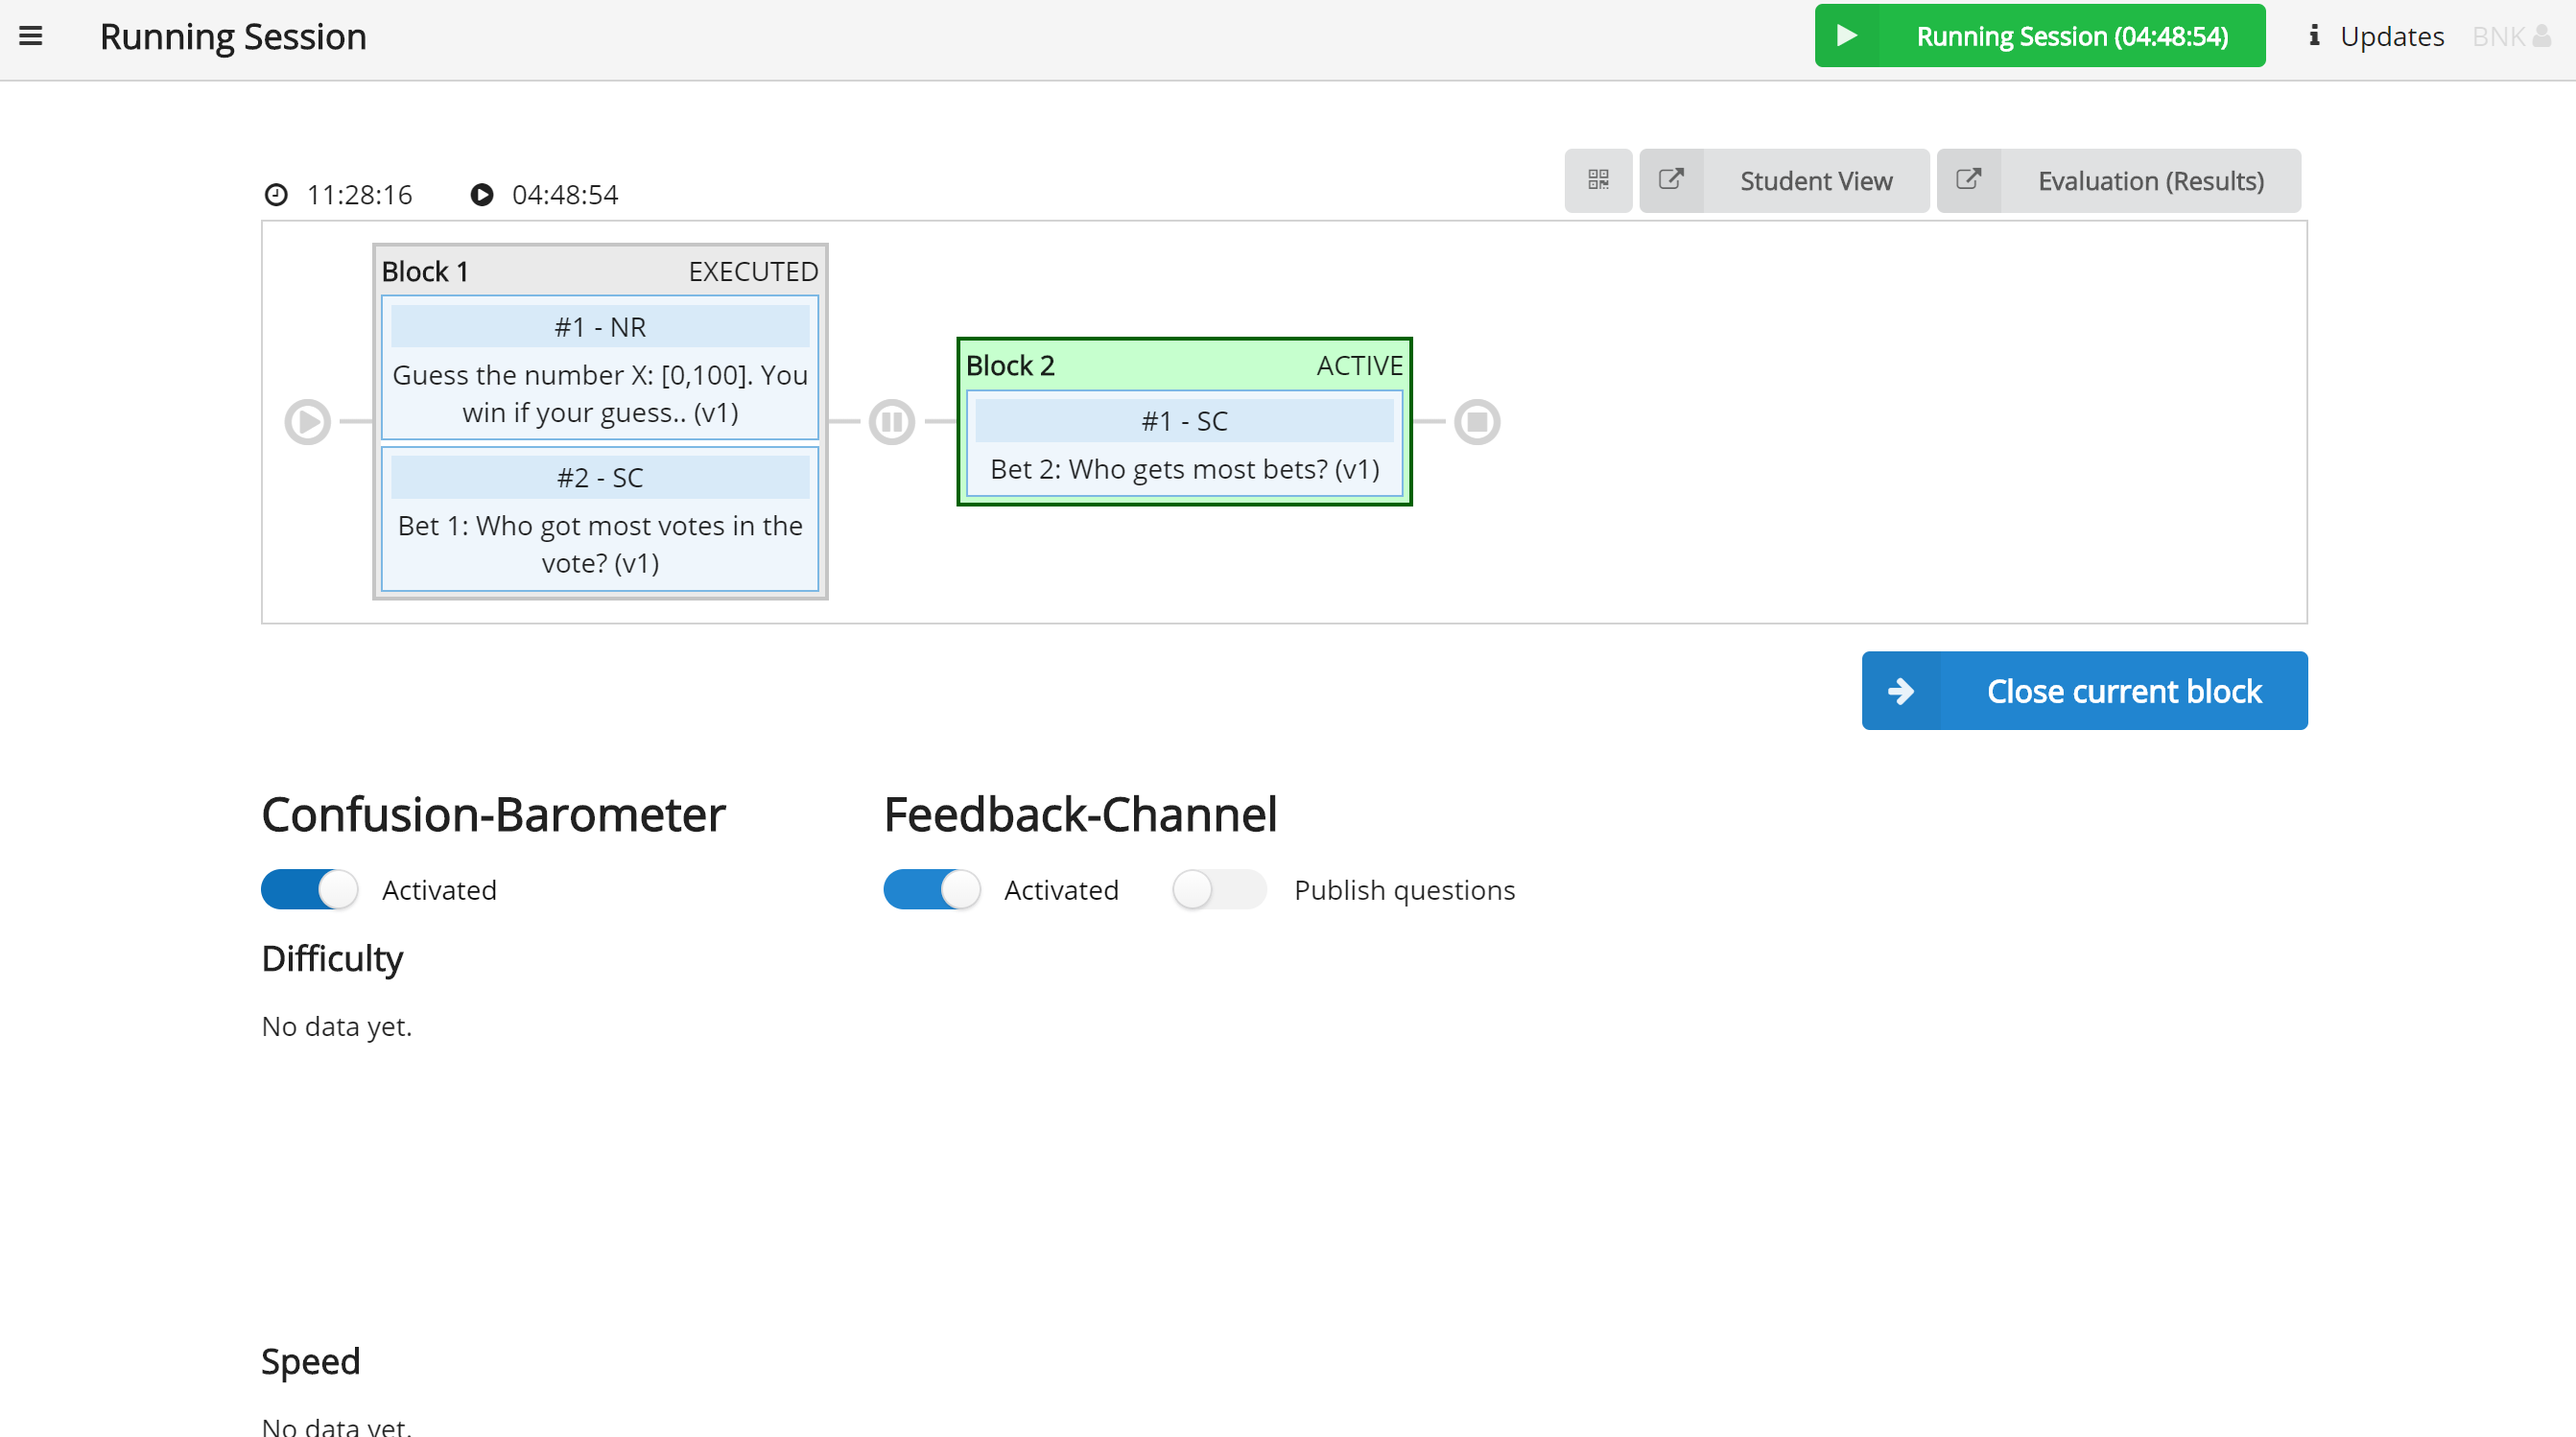
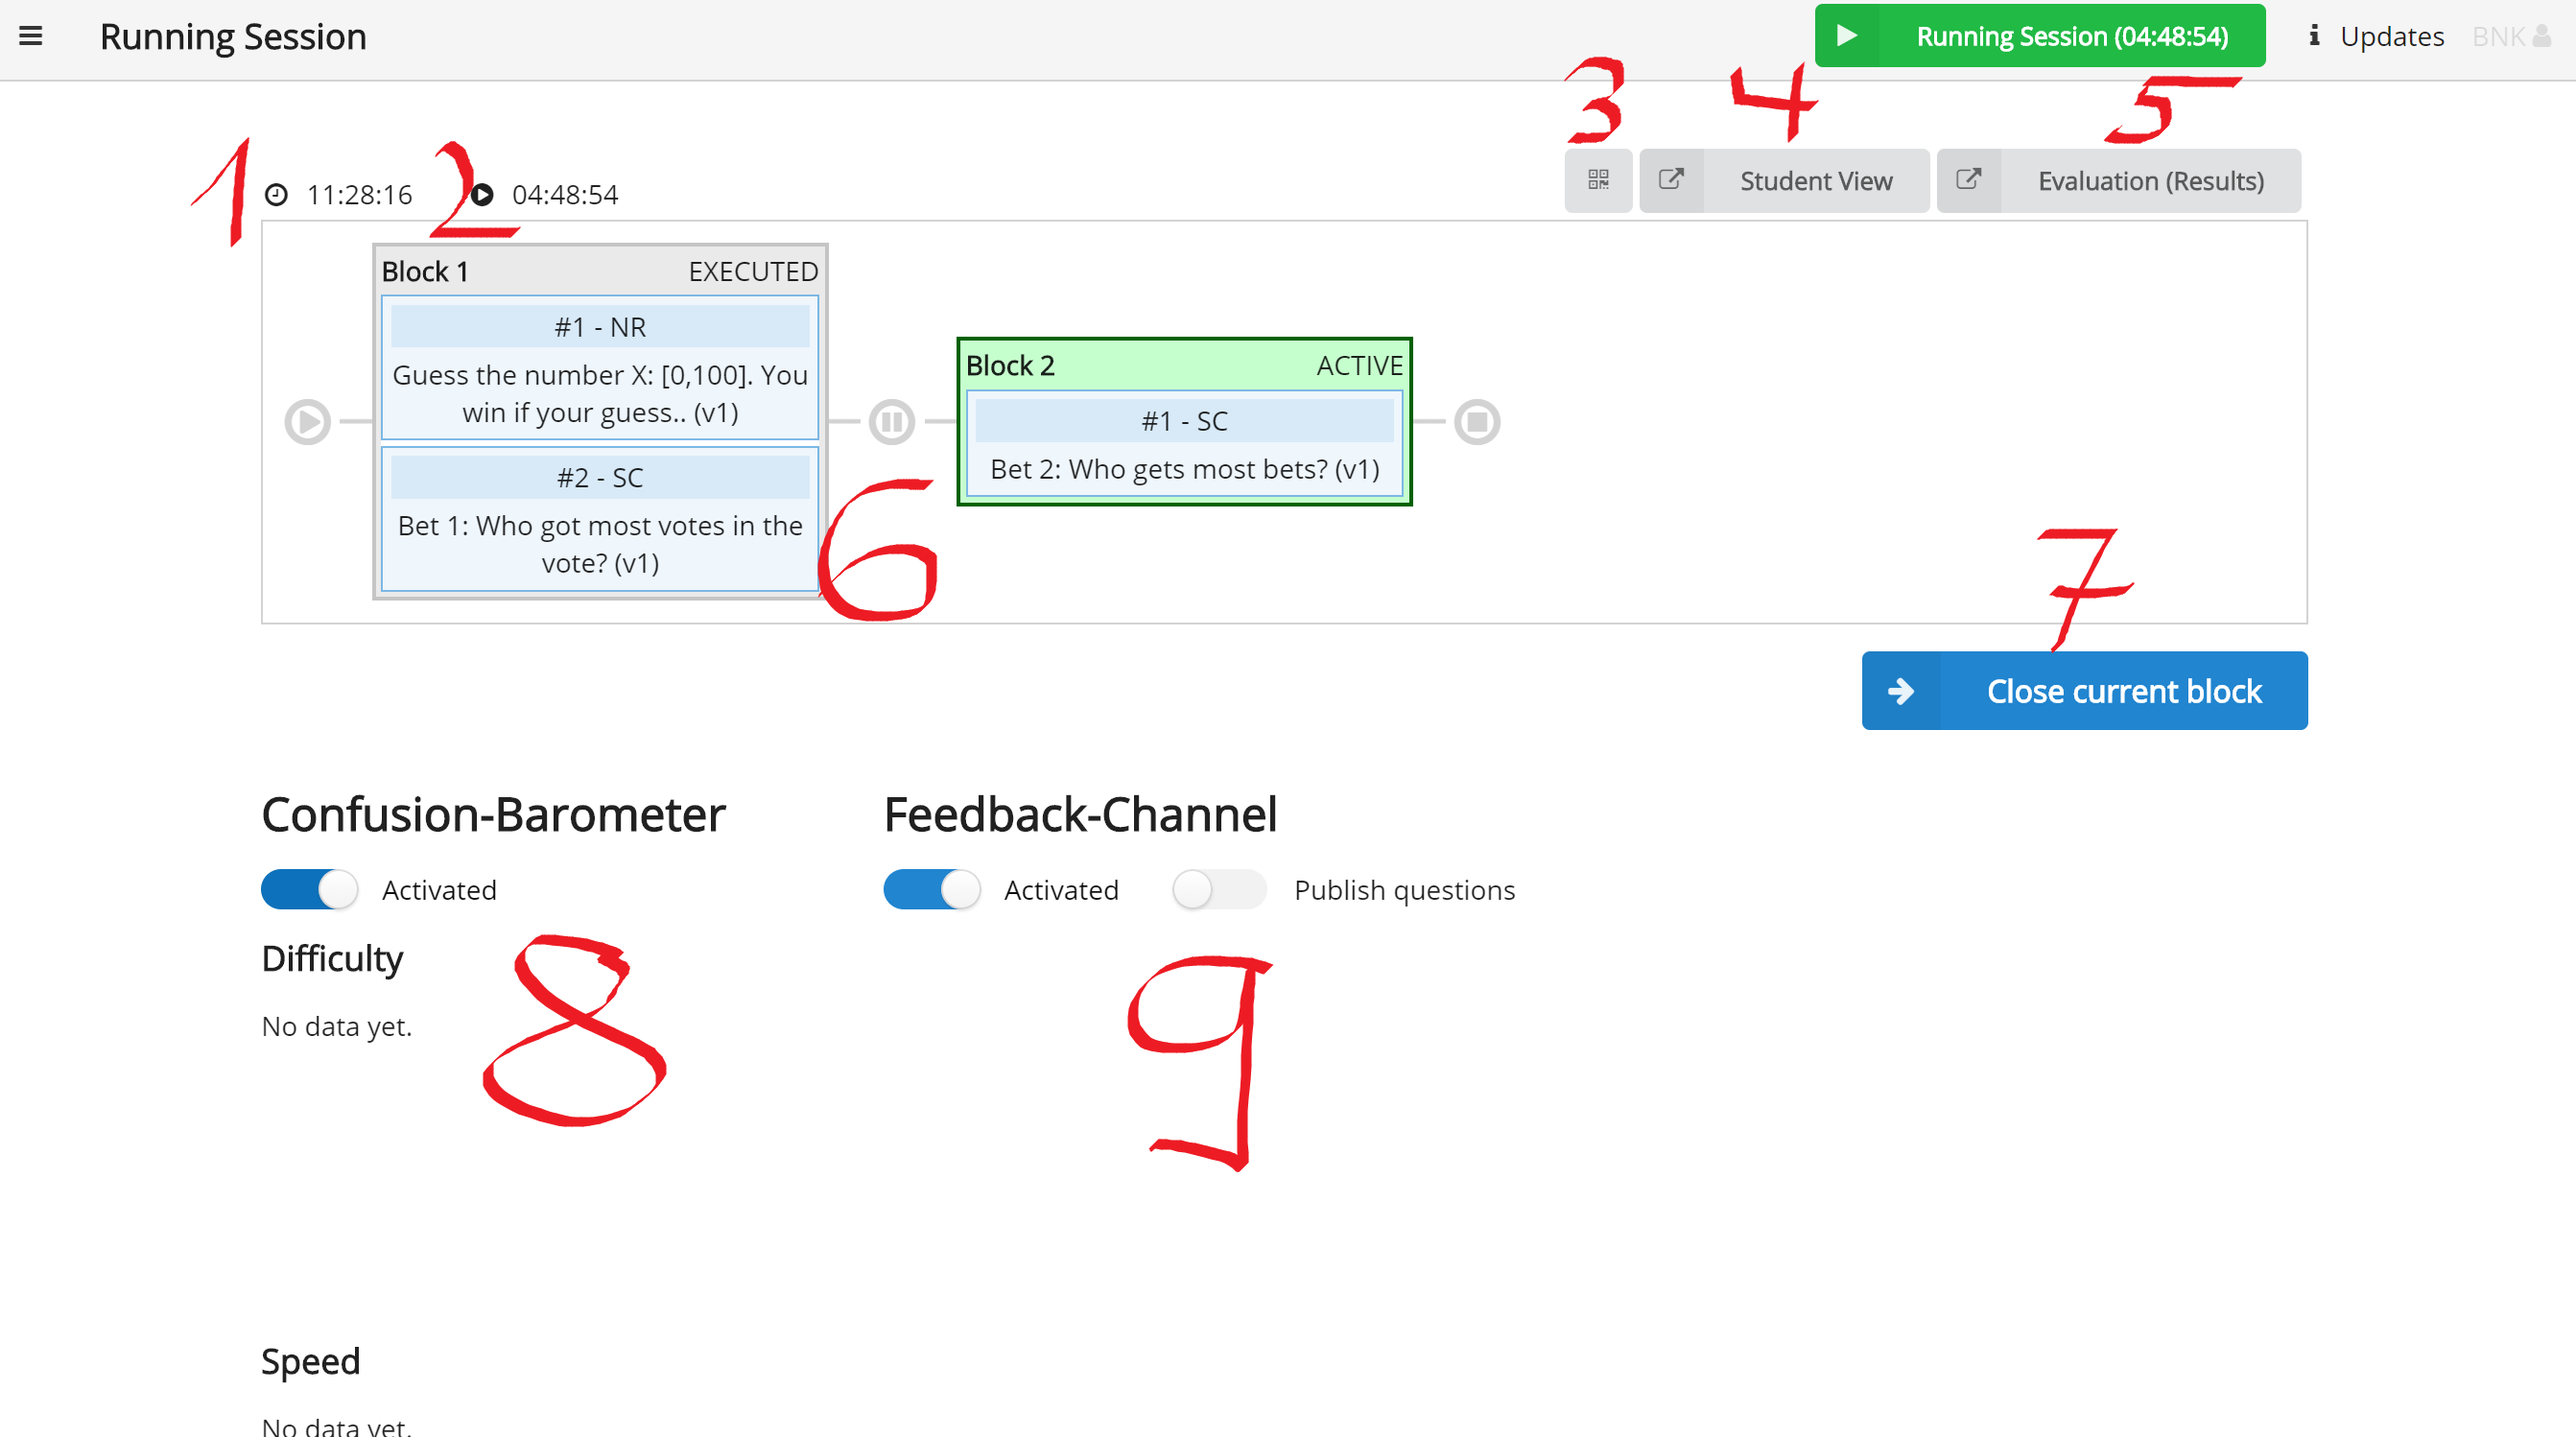
first documentation version finished

diff --git a/docusaurus/docs/doc7.md b/docusaurus/docs/doc7.md
@@ -3,14 +3,16 @@ id: doc7
 title: Running Session
 ---
 
-1. Starting Time
-2. Session Duration
-3. QR Code
-4. Student View
-5. Evaluation
-6. Question blocks
-7. Navigation
-8. Confusion-Barometer
-9. Feedback-Channel
+This screen is used during a speech or lecture to manage the questions and audience feedback and provides the following information and options:
+
+1. **Starting Time:** The time the session was started at.
+2. **Session Duration:** How long the session is already running.
+3. **QR Code:** Click here to display the QR-Code so that the audience can scan it (eg. with an appropriate mobile app) and get forwarded to the web page for answering the questions and giving feedback.
+4. **Student View:** Click here to see the [Student View](doc8.md). This also shows the URL to give to the audience for participation.
+5. **Evaluation:** Click here to see the [Evaluation](doc8.md) of the already answered questions.
+6. **Question blocks:** Already executed question blocks are labeled with "EXECUTED", the active one is labeled with "Active" and colored in green and upcoming question blocks are labeled with "PLANNED".
+7. **Navigation:** This button is used to navigate through the question blocks. It indicates the action taken when it is clicked. One can never navigate backwards!
+8. **Confusion-Barometer:** The Confusion-Barometer enables the audience to give feedback about the speed and difficulty of the speech or lecture. Click the button to activate or deactivate the function. Below the feedback about the speed and difficulty is presented in separate graphs.
+9. **Feedback-Channel:** The Feedback-Channel facilitates the audience to ask questions and give text feedback to the speaker. This function can be activated or deactivated with the button. Furthermore, the speaker may decide whether the feedback should also be visible to the audience or not.
 
 ![Running Session](assets/running_session.png)

diff --git a/docusaurus/docs/doc9.md b/docusaurus/docs/doc9.md
@@ -3,4 +3,20 @@ id: doc9
 title: Evaluation
 ---
 
-![Evaluation](assets/evaluation.png)
+The evaluation screen provides different charts for all questions asked within a session.
+
+Depending on the question type the evaluation screen might look different. Additionally, some
+charts are not available for all question types. The following two screens show all features:
+
+1. **Navigation:** All questions are listed here. Click the question or use the arrows on the very left or right to navigate through the questions:
+2. **Question:** The question asked to the audience.
+3. **Number of participants:** Indicates how many participants answered the question.
+4. **Show Solution:** For single and multiple choice questions this slider can be used to show the correct answer within the graph.
+5. **Chart Type:** this dropdown can be used to change the type of chart. There are 5 chart types available: Pie Chart, Bar Chart, Histogram, Word Cloud, and Table.
+6. **Choices:** This list shows all possible answers.
+7. **Statistics:** Statistics are only displayed for number range questions.
+8. / 9. **Chart:** The chart is only displayed after the "Show Graph" button is clicked. Providing this feature, enables the speaker to wait until enough participants answered the question before showing the results.
+
+![Evaluation](assets/evaluation_1.png)
+
+![Evaluation](assets/evaluation_2.png)

diff --git a/docusaurus/docs/doc4.md b/docusaurus/docs/doc4.md
@@ -15,11 +15,11 @@ showed for every question:
 6. **Usage History:** A list of all sessions where the question was used. Click on a link to see the evaluation.
 7. **Version**: Indicates which version is displayed. Click to change the version.
 
-The follwoing areas and buttons provide filtering options for the question list and allow to create new questions and sessions:
+The following areas and buttons provide filtering options for the question list and allow to create new questions and sessions:
 
 8. **Type/Tag**: Select question Types and/or Tags to filter the questions.
 9. **Search**: Type in a text to search question title and questions.
-10. **Sort**: Sort the questions according to their creation dates, last usage, question yypes or titles.
+10. **Sort**: Sort the questions according to their creation dates, last usage, question types or titles.
 11. **Sorting Order**: Order the questions in ascending or descending order.
 12. **Create Question**: Link to create a new question.
 13. **Create Session**: Link to create a new session.

diff --git a/docusaurus/docs/doc1.md b/docusaurus/docs/doc1.md
@@ -4,9 +4,9 @@ title: What is Klicker?
 ---
 
 Klicker is a web application that supports the interaction between the speaker and its
-audience. During a speech, participants may answer predifined questions over their computer
+audience. During a speech, participants may answer predefined questions over their computer
 or mobile phone. Furthermore, they are able to rate the speaker's speed and difficulty which
-is insantly displayed to the speaker. They also get the chance to ask questions over the
+is instantly displayed to the speaker. They also get the chance to ask questions over the
 application so that the speaker may focus on certain topics and answer the most important questions.
 
 This documentation introduces Klicker and gives a step by step guide of how to use it.

diff --git a/docusaurus/docs/doc3.md b/docusaurus/docs/doc3.md
@@ -13,9 +13,9 @@ attributes that need to be filled:
 2. **Question Type:** Determines how a question can be answered by the audience:
 
    * _Single Choice (SC):_ Only one of the given answers may be selected.
-   * _Multiple Choice (MC):_ Multiple of the given answers may be slected.
+   * _Multiple Choice (MC):_ Multiple of the given answers may be selected.
    * _Free Text (FT):_ The input is unrestricted (text answers).
-   * _Number Range (NR):_ A number within a given range may be choosen.
+   * _Number Range (NR):_ A number within a given range may be chosen.
 
 3. **Tags:** To group questions and simplifying filtering tags are used. Type in the tag or start typing and select an existing tag and confirm a tag by pressing Enter.
 

diff --git a/docusaurus/docs/doc8.md b/docusaurus/docs/doc8.md
@@ -3,8 +3,16 @@ id: doc8
 title: Student View
 ---
 
+This page is presented to the audience to answer questions (left side) and give instant feedback (left side) to the speaker.
 
+Moving the sliders for speed and difficulty instantly sends feedback to te speaker. The input box on the bottom enables
+sending text feedback or questions to the speaker's session cockpit.
+
+If questions get not displayed automatically after the speaker unlocks them, the webpage need to be reloaded.
 
 ![Student View Desktop](assets/student_view_desktop.png)
+
+For mobile devices the page is divided in two separate sections.
 ![Student View Mobile](assets/student_view_mobile.png)
+
 ![Student View Mobile](assets/student_view_mobile_2.png)

diff --git a/docusaurus/docs/doc2.md b/docusaurus/docs/doc2.md
@@ -11,6 +11,9 @@ questions may be viewed instantly and if desired shared with the audience.
 
 ![Workflow](assets/workflow.png)
 
+While the speaker is having his cockpit to manage the session, question blocks, and feedback
+settings, the audience may participate over mobile phones, laptops, and tablets.
+
 Follow this documentation chapter for chapter to get guided through a typical Klicker workflow including the following steps:
 
 - creating different types of questions
